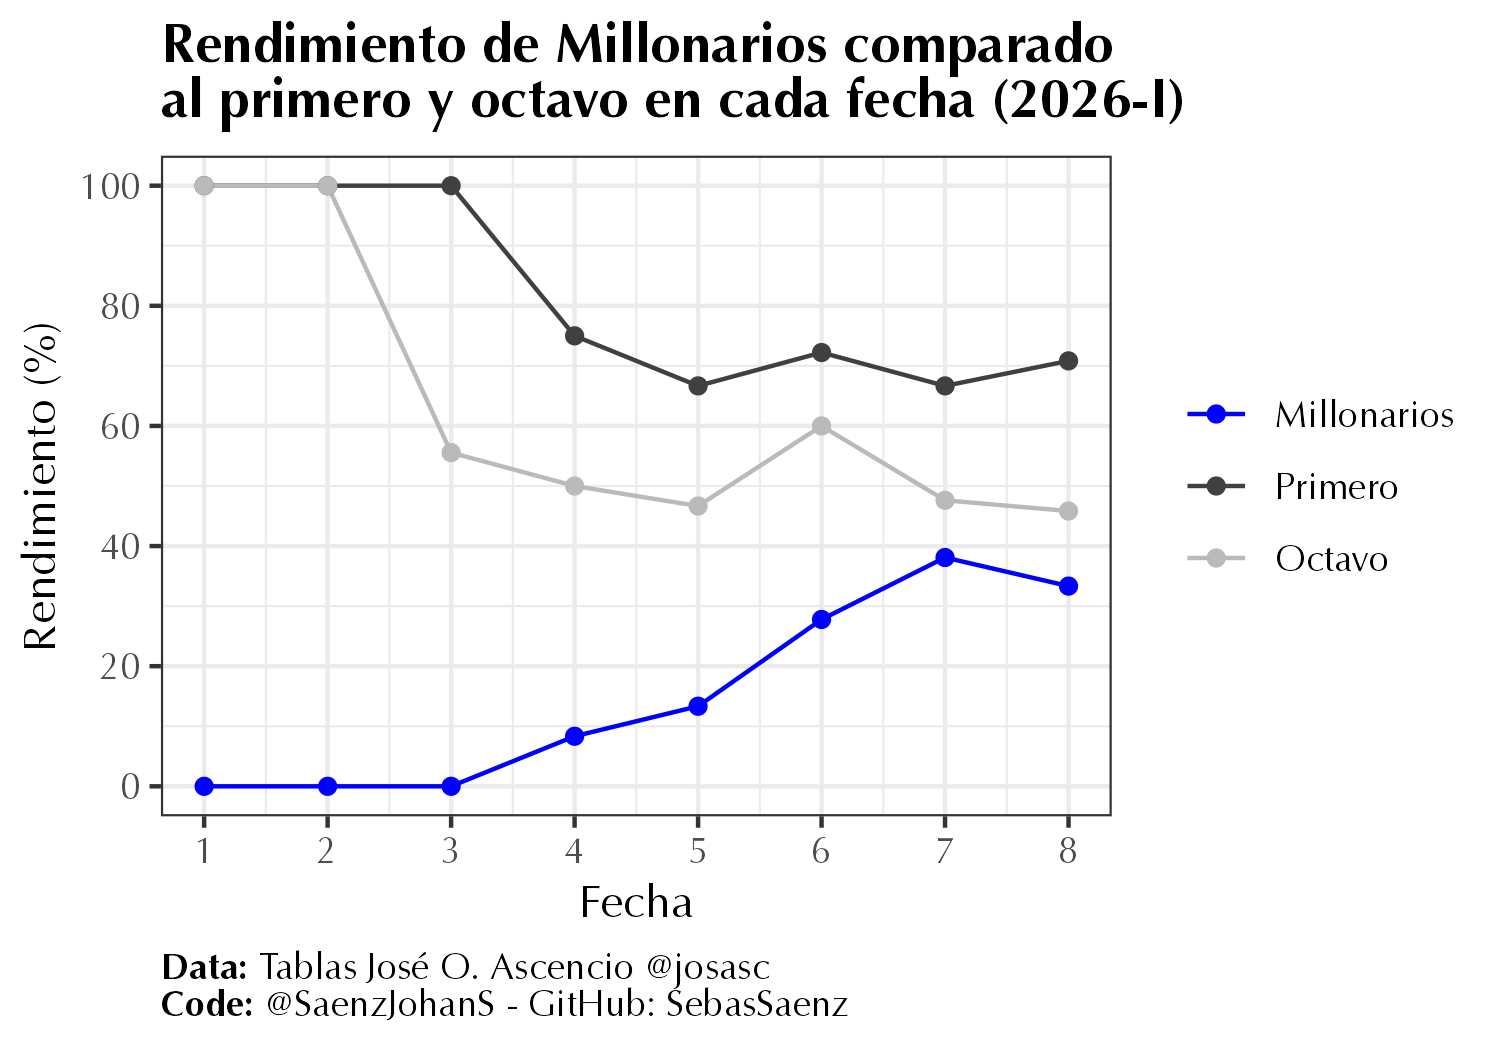
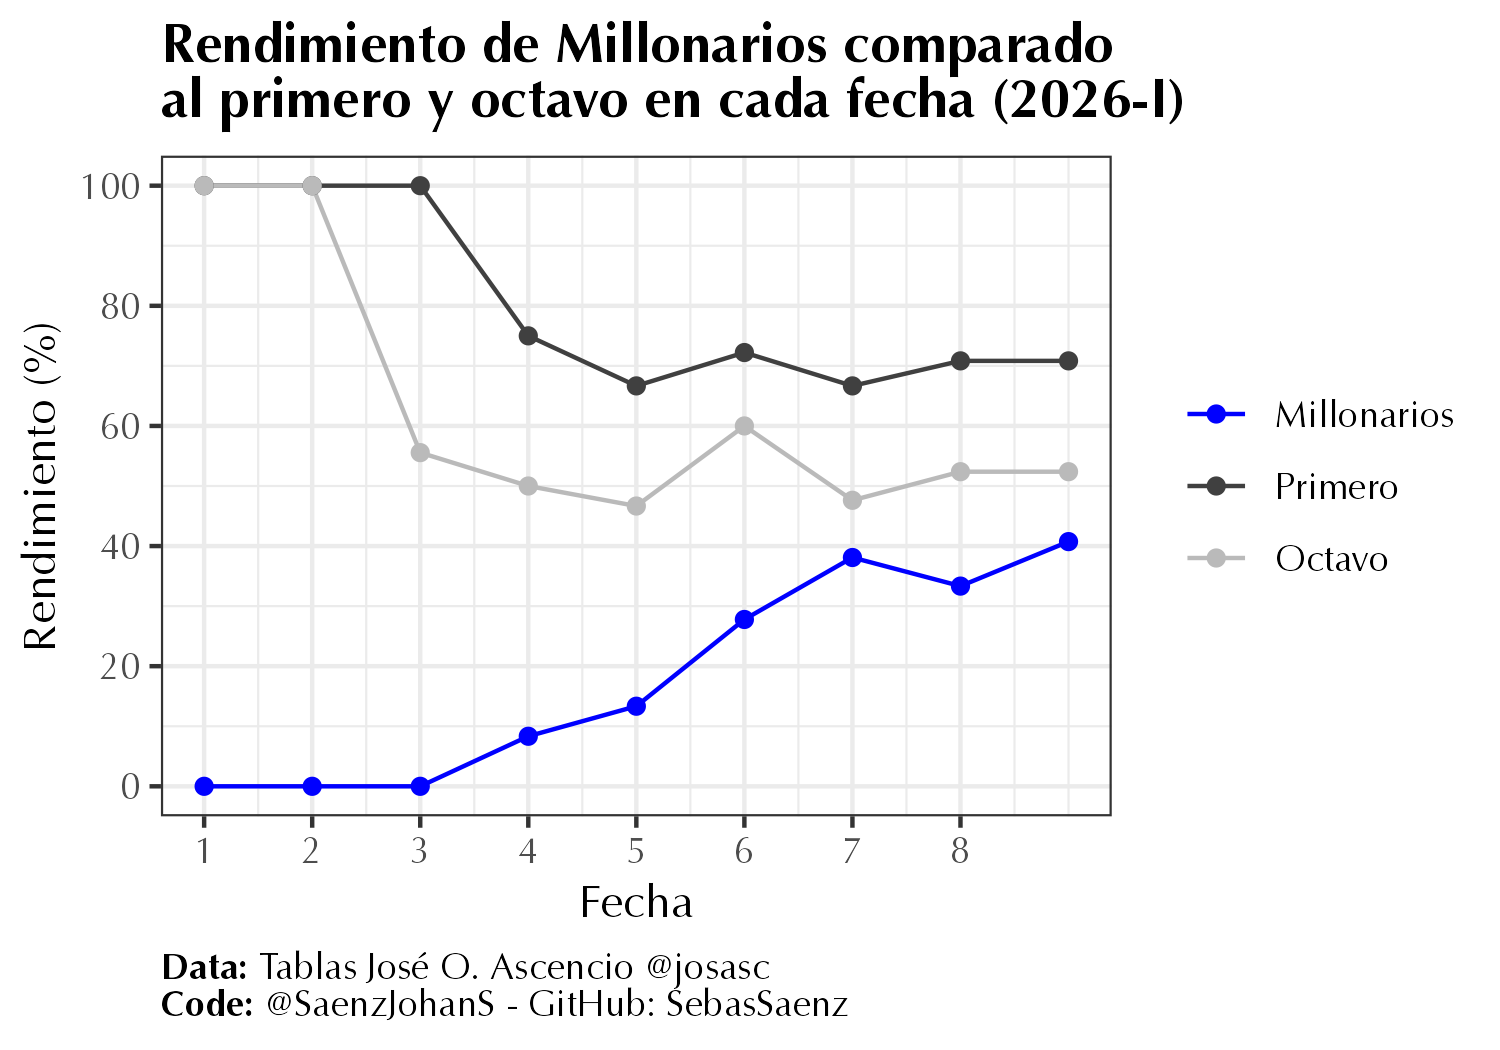
update fecha 9

diff --git a/docs/index.html b/docs/index.html
@@ -28,8 +28,8 @@
 <body>
 <div class="wrap">
   <div class="plotbox">
-    <div class="plotly html-widget html-fill-item" id="htmlwidget-d70a6ad0d728d7966bf4" style="width:100%;height:400px;"></div>
-    <script type="application/json" data-for="htmlwidget-d70a6ad0d728d7966bf4">{"x":{"data":[{"x":[1,2,3,4,5,6,7,8],"y":[0,0,0,8.3333333333333321,13.333333333333334,27.777777777777779,38.095238095238095,33.333333333333329],"text":["Equipo: Millonarios<br>Fecha: 1<br>Rendimiento: 0%","Equipo: Millonarios<br>Fecha: 2<br>Rendimiento: 0%","Equipo: Millonarios<br>Fecha: 3<br>Rendimiento: 0%","Equipo: Millonarios<br>Fecha: 4<br>Rendimiento: 8.3%","Equipo: Millonarios<br>Fecha: 5<br>Rendimiento: 13.3%","Equipo: Millonarios<br>Fecha: 6<br>Rendimiento: 27.8%","Equipo: Millonarios<br>Fecha: 7<br>Rendimiento: 38.1%","Equipo: Millonarios<br>Fecha: 8<br>Rendimiento: 33.3%"],"type":"scatter","mode":"lines+markers","line":{"width":1.8897637795275593,"color":"rgba(0,0,255,1)","dash":"solid"},"hoveron":"points","name":"Millonarios","legendgroup":"Millonarios","showlegend":true,"xaxis":"x","yaxis":"y","hoverinfo":"text","marker":{"autocolorscale":false,"color":"rgba(0,0,255,1)","opacity":1,"size":5.6692913385826778,"symbol":"circle","line":{"width":1.8897637795275593,"color":"rgba(0,0,255,1)"}},"frame":null},{"x":[1,2,3,4,5,6,7,8],"y":[100,100,100,75,66.666666666666657,72.222222222222214,66.666666666666657,70.833333333333343],"text":["Equipo: Nacional<br>Fecha: 1<br>Rendimiento: 100%","Equipo: Tolima<br>Fecha: 2<br>Rendimiento: 100%","Equipo: Pasto<br>Fecha: 3<br>Rendimiento: 100%","Equipo: Pasto<br>Fecha: 4<br>Rendimiento: 75%","Equipo: Internacional de Bogota<br>Fecha: 5<br>Rendimiento: 66.7%","Equipo: Internacional de Bogota<br>Fecha: 6<br>Rendimiento: 72.2%","Equipo: Internacional de Bogota<br>Fecha: 7<br>Rendimiento: 66.7%","Equipo: Internacional de Bogota<br>Fecha: 8<br>Rendimiento: 70.8%"],"type":"scatter","mode":"lines+markers","line":{"width":1.8897637795275593,"color":"rgba(64,64,64,1)","dash":"solid"},"hoveron":"points","name":"Primero","legendgroup":"Primero","showlegend":true,"xaxis":"x","yaxis":"y","hoverinfo":"text","marker":{"autocolorscale":false,"color":"rgba(64,64,64,1)","opacity":1,"size":5.6692913385826778,"symbol":"circle","line":{"width":1.8897637795275593,"color":"rgba(64,64,64,1)"}},"frame":null},{"x":[1,2,3,4,5,6,7,8],"y":[100,100,55.555555555555557,50,46.666666666666664,60,47.619047619047613,45.833333333333329],"text":["Equipo: Jaguares<br>Fecha: 1<br>Rendimiento: 100%","Equipo: Nacional<br>Fecha: 2<br>Rendimiento: 100%","Equipo: Fortaleza<br>Fecha: 3<br>Rendimiento: 55.6%","Equipo: Once Caldas<br>Fecha: 4<br>Rendimiento: 50%","Equipo: Cali<br>Fecha: 5<br>Rendimiento: 46.7%","Equipo: Junior<br>Fecha: 6<br>Rendimiento: 60%","Equipo: Once Caldas<br>Fecha: 7<br>Rendimiento: 47.6%","Equipo: Cali<br>Fecha: 8<br>Rendimiento: 45.8%"],"type":"scatter","mode":"lines+markers","line":{"width":1.8897637795275593,"color":"rgba(186,186,186,1)","dash":"solid"},"hoveron":"points","name":"Octavo","legendgroup":"Octavo","showlegend":true,"xaxis":"x","yaxis":"y","hoverinfo":"text","marker":{"autocolorscale":false,"color":"rgba(186,186,186,1)","opacity":1,"size":5.6692913385826778,"symbol":"circle","line":{"width":1.8897637795275593,"color":"rgba(186,186,186,1)"}},"frame":null}],"layout":{"margin":{"t":120,"r":10,"b":120,"l":55},"plot_bgcolor":"rgba(255,255,255,1)","paper_bgcolor":"rgba(255,255,255,1)","font":{"color":"rgba(0,0,0,1)","family":"optima","size":14.611872146118724},"title":{"text":"Rendimiento de Millonarios comparado<br>al primero y octavo en cada fecha (2026-I)","font":{"color":"rgba(0,0,0,1)","family":"optima","size":28},"x":0.5,"xref":"paper","xanchor":"center"},"xaxis":{"domain":[0,1],"automargin":true,"type":"linear","autorange":false,"range":[0.64999999999999991,8.3499999999999996],"tickmode":"array","ticktext":["1","2","3","4","5","6","7","8"],"tickvals":[1,2,3,4,5,6,7,8],"categoryorder":"array","categoryarray":["1","2","3","4","5","6","7","8"],"nticks":null,"ticks":"outside","tickcolor":"rgba(51,51,51,1)","ticklen":3.6529680365296811,"tickwidth":0,"showticklabels":true,"tickfont":{"color":"rgba(77,77,77,1)","family":"optima","size":11.68949771689498},"tickangle":-0,"showline":false,"linecolor":null,"linewidth":0,"showgrid":true,"gridcolor":"rgba(235,235,235,1)","gridwidth":0,"zeroline":false,"anchor":"y","title":{"text":"Fecha","font":{"color":"rgba(0,0,0,1)","family":"optima","size":14.611872146118724}},"hoverformat":".2f"},"yaxis":{"domain":[0,1],"automargin":true,"type":"linear","autorange":false,"range":[-5,105],"tickmode":"array","ticktext":["0","20","40","60","80","100"],"tickvals":[0,20,40,60,80,100],"categoryorder":"array","categoryarray":["0","20","40","60","80","100"],"nticks":null,"ticks":"outside","tickcolor":"rgba(51,51,51,1)","ticklen":3.6529680365296811,"tickwidth":0,"showticklabels":true,"tickfont":{"color":"rgba(77,77,77,1)","family":"optima","size":11.689497716894984},"tickangle":-0,"showline":false,"linecolor":null,"linewidth":0,"showgrid":true,"gridcolor":"rgba(235,235,235,1)","gridwidth":0,"zeroline":false,"anchor":"x","title":{"text":"Rendimiento (%)","font":{"color":"rgba(0,0,0,1)","family":"optima","size":14.611872146118724}},"hoverformat":".2f"},"shapes":[{"type":"rect","fillcolor":"rgba(255,255,255,1)","line":{"color":"rgba(51,51,51,1)","width":0,"linetype":"solid"},"yref":"paper","xref":"paper","layer":"below","x0":0,"x1":1,"y0":0,"y1":1}],"showlegend":true,"legend":{"bgcolor":"rgba(255,255,255,1)","bordercolor":"transparent","borderwidth":0,"font":{"color":"rgba(0,0,0,1)","family":"optima","size":12},"title":{"text":[],"font":{"color":null,"family":null,"size":0}}},"hovermode":"closest","barmode":"relative","height":520,"annotations":[{"text":"<b>Data:<\/b> Tablas José O. Ascencio @josasc<br><b>Code:<\/b> @SaenzJohanS - GitHub: SebasSaenz","x":0,"y":-0.29999999999999999,"xref":"paper","yref":"paper","showarrow":false,"xanchor":"left","align":"left","font":{"size":13,"family":"optima"}}]},"config":{"doubleClick":"reset","modeBarButtonsToAdd":["hoverclosest","hovercompare"],"showSendToCloud":false,"responsive":true},"source":"A","attrs":{"77ba6fcc57b7":{"x":{},"y":{},"colour":{},"text":{},"type":"scatter"},"77ba5092e8b8":{"x":{},"y":{},"colour":{},"text":{}}},"cur_data":"77ba6fcc57b7","visdat":{"77ba6fcc57b7":["function (y) ","x"],"77ba5092e8b8":["function (y) ","x"]},"highlight":{"on":"plotly_click","persistent":false,"dynamic":false,"selectize":false,"opacityDim":0.20000000000000001,"selected":{"opacity":1},"debounce":0},"shinyEvents":["plotly_hover","plotly_click","plotly_selected","plotly_relayout","plotly_brushed","plotly_brushing","plotly_clickannotation","plotly_doubleclick","plotly_deselect","plotly_afterplot","plotly_sunburstclick"],"base_url":"https://plot.ly"},"evals":[],"jsHooks":[]}</script>
+    <div class="plotly html-widget html-fill-item" id="htmlwidget-870e76d3659a973b6454" style="width:100%;height:400px;"></div>
+    <script type="application/json" data-for="htmlwidget-870e76d3659a973b6454">{"x":{"data":[{"x":[1,2,3,4,5,6,7,8,9],"y":[0,0,0,8.3333333333333321,13.333333333333334,27.777777777777779,38.095238095238095,33.333333333333329,40.74074074074074],"text":["Equipo: Millonarios<br>Fecha: 1<br>Rendimiento: 0%","Equipo: Millonarios<br>Fecha: 2<br>Rendimiento: 0%","Equipo: Millonarios<br>Fecha: 3<br>Rendimiento: 0%","Equipo: Millonarios<br>Fecha: 4<br>Rendimiento: 8.3%","Equipo: Millonarios<br>Fecha: 5<br>Rendimiento: 13.3%","Equipo: Millonarios<br>Fecha: 6<br>Rendimiento: 27.8%","Equipo: Millonarios<br>Fecha: 7<br>Rendimiento: 38.1%","Equipo: Millonarios<br>Fecha: 8<br>Rendimiento: 33.3%","Equipo: Millonarios<br>Fecha: 9<br>Rendimiento: 40.7%"],"type":"scatter","mode":"lines+markers","line":{"width":1.8897637795275593,"color":"rgba(0,0,255,1)","dash":"solid"},"hoveron":"points","name":"Millonarios","legendgroup":"Millonarios","showlegend":true,"xaxis":"x","yaxis":"y","hoverinfo":"text","marker":{"autocolorscale":false,"color":"rgba(0,0,255,1)","opacity":1,"size":5.6692913385826778,"symbol":"circle","line":{"width":1.8897637795275593,"color":"rgba(0,0,255,1)"}},"frame":null},{"x":[1,2,3,4,5,6,7,8,9],"y":[100,100,100,75,66.666666666666657,72.222222222222214,66.666666666666657,70.833333333333343,70.833333333333343],"text":["Equipo: Nacional<br>Fecha: 1<br>Rendimiento: 100%","Equipo: Tolima<br>Fecha: 2<br>Rendimiento: 100%","Equipo: Pasto<br>Fecha: 3<br>Rendimiento: 100%","Equipo: Pasto<br>Fecha: 4<br>Rendimiento: 75%","Equipo: Internacional de Bogota<br>Fecha: 5<br>Rendimiento: 66.7%","Equipo: Internacional de Bogota<br>Fecha: 6<br>Rendimiento: 72.2%","Equipo: Internacional de Bogota<br>Fecha: 7<br>Rendimiento: 66.7%","Equipo: Internacional de Bogota<br>Fecha: 8<br>Rendimiento: 70.8%","Equipo: Internacional de Bogota<br>Fecha: 9<br>Rendimiento: 70.8%"],"type":"scatter","mode":"lines+markers","line":{"width":1.8897637795275593,"color":"rgba(64,64,64,1)","dash":"solid"},"hoveron":"points","name":"Primero","legendgroup":"Primero","showlegend":true,"xaxis":"x","yaxis":"y","hoverinfo":"text","marker":{"autocolorscale":false,"color":"rgba(64,64,64,1)","opacity":1,"size":5.6692913385826778,"symbol":"circle","line":{"width":1.8897637795275593,"color":"rgba(64,64,64,1)"}},"frame":null},{"x":[1,2,3,4,5,6,7,8,9],"y":[100,100,55.555555555555557,50,46.666666666666664,60,47.619047619047613,52.380952380952387,52.380952380952387],"text":["Equipo: Jaguares<br>Fecha: 1<br>Rendimiento: 100%","Equipo: Nacional<br>Fecha: 2<br>Rendimiento: 100%","Equipo: Fortaleza<br>Fecha: 3<br>Rendimiento: 55.6%","Equipo: Once Caldas<br>Fecha: 4<br>Rendimiento: 50%","Equipo: Cali<br>Fecha: 5<br>Rendimiento: 46.7%","Equipo: Junior<br>Fecha: 6<br>Rendimiento: 60%","Equipo: Once Caldas<br>Fecha: 7<br>Rendimiento: 47.6%","Equipo: Bucaramanga<br>Fecha: 8<br>Rendimiento: 52.4%","Equipo: Bucaramanga<br>Fecha: 9<br>Rendimiento: 52.4%"],"type":"scatter","mode":"lines+markers","line":{"width":1.8897637795275593,"color":"rgba(186,186,186,1)","dash":"solid"},"hoveron":"points","name":"Octavo","legendgroup":"Octavo","showlegend":true,"xaxis":"x","yaxis":"y","hoverinfo":"text","marker":{"autocolorscale":false,"color":"rgba(186,186,186,1)","opacity":1,"size":5.6692913385826778,"symbol":"circle","line":{"width":1.8897637795275593,"color":"rgba(186,186,186,1)"}},"frame":null}],"layout":{"margin":{"t":120,"r":10,"b":120,"l":55},"plot_bgcolor":"rgba(255,255,255,1)","paper_bgcolor":"rgba(255,255,255,1)","font":{"color":"rgba(0,0,0,1)","family":"optima","size":14.611872146118724},"title":{"text":"Rendimiento de Millonarios comparado<br>al primero y octavo en cada fecha (2026-I)","font":{"color":"rgba(0,0,0,1)","family":"optima","size":28},"x":0.5,"xref":"paper","xanchor":"center"},"xaxis":{"domain":[0,1],"automargin":true,"type":"linear","autorange":false,"range":[0.59999999999999998,9.4000000000000004],"tickmode":"array","ticktext":["1","2","3","4","5","6","7","8"],"tickvals":[1,2,3,4,5,6,7,7.9999999999999991],"categoryorder":"array","categoryarray":["1","2","3","4","5","6","7","8"],"nticks":null,"ticks":"outside","tickcolor":"rgba(51,51,51,1)","ticklen":3.6529680365296811,"tickwidth":0,"showticklabels":true,"tickfont":{"color":"rgba(77,77,77,1)","family":"optima","size":11.68949771689498},"tickangle":-0,"showline":false,"linecolor":null,"linewidth":0,"showgrid":true,"gridcolor":"rgba(235,235,235,1)","gridwidth":0,"zeroline":false,"anchor":"y","title":{"text":"Fecha","font":{"color":"rgba(0,0,0,1)","family":"optima","size":14.611872146118724}},"hoverformat":".2f"},"yaxis":{"domain":[0,1],"automargin":true,"type":"linear","autorange":false,"range":[-5,105],"tickmode":"array","ticktext":["0","20","40","60","80","100"],"tickvals":[0,20,40,60,80,100],"categoryorder":"array","categoryarray":["0","20","40","60","80","100"],"nticks":null,"ticks":"outside","tickcolor":"rgba(51,51,51,1)","ticklen":3.6529680365296811,"tickwidth":0,"showticklabels":true,"tickfont":{"color":"rgba(77,77,77,1)","family":"optima","size":11.68949771689498},"tickangle":-0,"showline":false,"linecolor":null,"linewidth":0,"showgrid":true,"gridcolor":"rgba(235,235,235,1)","gridwidth":0,"zeroline":false,"anchor":"x","title":{"text":"Rendimiento (%)","font":{"color":"rgba(0,0,0,1)","family":"optima","size":14.611872146118724}},"hoverformat":".2f"},"shapes":[{"type":"rect","fillcolor":"rgba(255,255,255,1)","line":{"color":"rgba(51,51,51,1)","width":0,"linetype":"solid"},"yref":"paper","xref":"paper","layer":"below","x0":0,"x1":1,"y0":0,"y1":1}],"showlegend":true,"legend":{"bgcolor":"rgba(255,255,255,1)","bordercolor":"transparent","borderwidth":0,"font":{"color":"rgba(0,0,0,1)","family":"optima","size":12},"title":{"text":[],"font":{"color":null,"family":null,"size":0}}},"hovermode":"closest","barmode":"relative","height":520,"annotations":[{"text":"<b>Data:<\/b> Tablas José O. Ascencio @josasc<br><b>Code:<\/b> @SaenzJohanS - GitHub: SebasSaenz","x":0,"y":-0.29999999999999999,"xref":"paper","yref":"paper","showarrow":false,"xanchor":"left","align":"left","font":{"size":13,"family":"optima"}}]},"config":{"doubleClick":"reset","modeBarButtonsToAdd":["hoverclosest","hovercompare"],"showSendToCloud":false,"responsive":true},"source":"A","attrs":{"41da315f8385":{"x":{},"y":{},"colour":{},"text":{},"type":"scatter"},"41da75b3aa15":{"x":{},"y":{},"colour":{},"text":{}}},"cur_data":"41da315f8385","visdat":{"41da315f8385":["function (y) ","x"],"41da75b3aa15":["function (y) ","x"]},"highlight":{"on":"plotly_click","persistent":false,"dynamic":false,"selectize":false,"opacityDim":0.20000000000000001,"selected":{"opacity":1},"debounce":0},"shinyEvents":["plotly_hover","plotly_click","plotly_selected","plotly_relayout","plotly_brushed","plotly_brushing","plotly_clickannotation","plotly_doubleclick","plotly_deselect","plotly_afterplot","plotly_sunburstclick"],"base_url":"https://plot.ly"},"evals":[],"jsHooks":[]}</script>
   </div>
 </div>
 </body>
